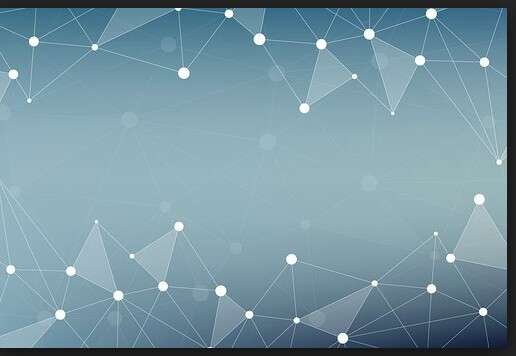
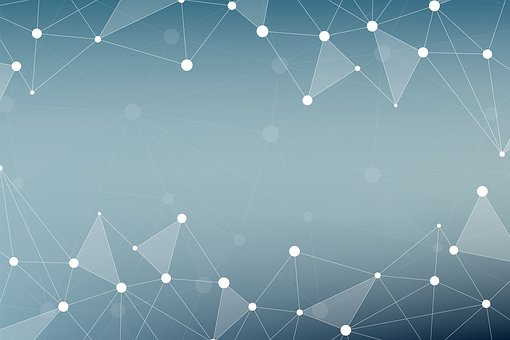
added a stand in picture and background

diff --git a/index.html b/index.html
@@ -5,17 +5,19 @@
   </head>
   <body>
     <marquee type="scroll">
-      <img src="me.png" align="center" alt="Dennis Kamau" width="800" height="500" border="0" type="circle">
+      <img src="me.jpg" align="center" alt="Dennis Kamau" width="800" height="500" border="0" type="circle">
     </marquee>
       <p align="center">Whether you're just starting a business or want to move
          your existing brick and mortar business online, you'll need to locate a</br>
          website builder to get you and your brand online. Website builders come</br>
          with a variety of options, so it is important to find one that fits you</br>
           and your website.</p>
-      <nav align="center">
-            <a href="home.html">HOME|</a>
-            <a href="about.html">ABOUT|</a>
-            <a href="contacts.html">CONTACTS|</a>
-      </nav>
-    </body>
-    </html>
+    <table border="0" align="center">
+      <tr>
+          <td><a href="home.html"><h1>HOME|</h1></a></td>
+          <td><a href="about.html"><h1>ABOUT|</h1></a></td>
+          <td><a href="contacts.html"><h1>CONTACTS|</h1></a></td>
+      </tr>
+    </table>
+  </body>
+</html>

diff --git a/port.css b/port.css
@@ -1,4 +1,4 @@
 body{
 background-image: url("bg.jpg");
-background-repeat: no-repeat;
+background-repeat:repeat-x,-y;
 }
